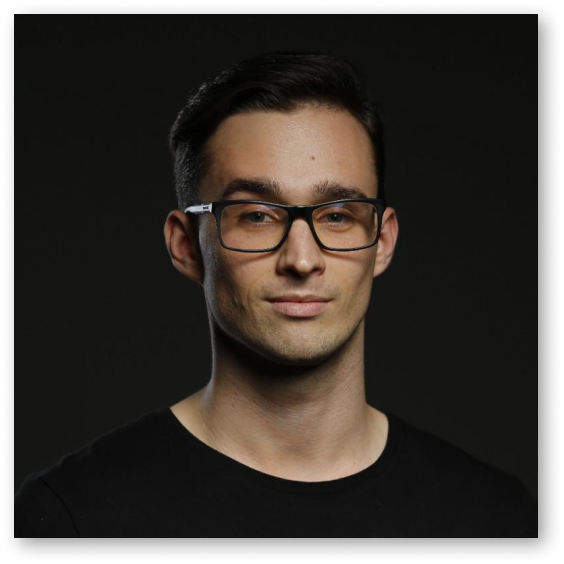
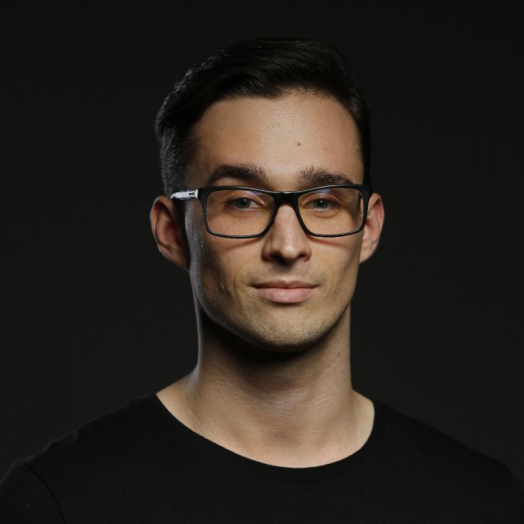
Sekcja mięsko

diff --git a/style.css b/style.css
@@ -1,6 +1,7 @@
 :root{
     --main-black: #232323;
     --main-white: #F8F8F8;
+    --main-black-nice: rgba(56, 56, 56, 0.9);
 }
 
 body{
@@ -8,8 +9,8 @@ body{
      font-family: Lato, sans-serif;
      font-weight: 300;
      margin: 0;
-     width: 100%;
-     height: 100%;
+     /* width: 100%; */
+     /* height: 100%; */
 
 }
 
@@ -43,11 +44,21 @@ align-items: center;
 
 .hero-right {
 width: 1fr;
-background: #3A82B6;
-opacity: .9;
+/* background: #666666; */
+/* background-color: var(--main-black-nice); */
+/* background-color: var (--main-black-nice); */
+/* opacity: 0.9; */
 flex: 5;
 
 }
+.right-background {
+    background-color: var(--main-black-nice);
+    width: 100%;
+    height: 100%;
+
+
+}
+
 .hello {
       margin-left: 80px;
       
@@ -77,16 +88,35 @@ flex: 5;
 .navbar {
     display: flex;
     justify-content: space-evenly;
-    margin-top: 20px;
+    /* margin-top: 20px; */
+    position: relative;
+    top: 20px;
 }
 
 .navbttn > a {
     text-decoration: none; 
      color: var(--main-white);
      font-weight: 600;
+     /* margin-top: 20px; */
+}
+
+.pysk img {
+    opacity: 1;
+    border-radius: 100%;
+    width: 300px;
+    height: 300px;
+}
+
+.pysk {
+    position: relative;
+    top: 80px;
+    right: 140px;
 }
 .cta-container {
-    display:flex;
+    display: flex;
+    flex-direction: column;
+    align-items: center;
+    line-height: 40px;
 }
 
 .cta-container > h1 {
@@ -94,7 +124,57 @@ flex: 5;
     align-items: center;
 }
 
-.pysk img {
-    opacity: 1;
-    border-radius: 50;
+.ctabttn a{
+    text-decoration: none;
+    font-size: 20px;
+    margin: 30px;
+    padding-top: 8px;
+    padding-bottom: 8px;
+    padding-left: 20px;
+    padding-right: 20px;
+    border: solid 1px var(--main-black-nice);
+    border-radius: 20px;
+    color: var(--main-black-nice);
+    font-weight: 500;
+    margin-top: 0px;
+}
+
+.ctabttn a:hover {
+    background-color: #FDC32F;
+    border-color: #FDC32F;
+    color: var(--main-white);
+}
+
+.ctabttn a:active {
+    background-color: rgb(247, 207, 108);
+    border-color: rgb(247, 207, 108);
+    color: var(--main-white);
+}
+
+.miesko {
+    display: flex;
+    flex-direction: column;
+    background-color: #F9F9F9;
+}
+
+.about {
+    margin: 50px;
+    display: flex;
+    flex-direction: column;
+    background-color: #fff;
+    align-items: center;
+}
+
+.about-content {
+    display: flex;
+}
+
+.about-left {
+    flex: 4;
+    padding: 20px;
+}
+
+.about-right {
+    flex: 5;
+    padding: 20px;
 }

diff --git a/index.html b/index.html
@@ -30,6 +30,7 @@
         </div>
     </div>
     <div class="hero-right box">
+        <div class="right-background">
         
         <div class="navbar">
             <div class="navbttn"><a href="#">About me</a></div>
@@ -37,17 +38,47 @@
             <div class="navbttn"><a href="#">Portfolio</a></div>
             <div class="navbttn"><a href="#">Contact</a></div>
         </div>
-        <div class="pysk"><img src="./img/ryj kwadrat.png" alt="Sobolak">  </div>
+        <div class="pysk"><img class= "pysk-img" src="./img/ryj kwadrat.png" alt="Sobolak"/>  </div>
 
-    </div>
+        </div>
+    </div>    
+    
 
 </div>
 <div class="cta-container">
     <h1>Let me know how I <strong>can't</strong> help you with your projects</h1>
-
+    <div class="ctabttn">
+    <a href="#">Contact me</a>
+    <a href="#">Learn about me</a>
+    </div>
 </div>
 
+<div class="miesko">
+    <div class="about">
+        <h2>About</h2>
+        <div class="about-content">
+            <div class="about-left">
+                <p>Full name</p>
+                <p>Age</p>
+                <p>Job</p>
+                <p>Telephone</p>
+                <p>E-mail</p>
+            </div>
+            <div class="about-right">
+            Sunt ea laboris occaecat laborum laborum sunt labore sit quis culpa amet culpa enim excepteur. Velit veniam occaecat consectetur tempor ipsum id. Tempor ut dolore et amet dolore officia fugiat sint non ea aliquip sit id tempor. Cupidatat qui deserunt non labore eiusmod ipsum amet ea sint velit elit sit nostrud adipisicing. Laborum sunt tempor minim Lorem magna elit laboris id ex. Ullamco Lorem ad nisi duis officia adipisicing excepteur aute sint elit. Eu laborum ad et quis ullamco.
+            </div>
 
+
+        </div>
+    </div>
+    <div class="skills">
+
+    </div>
+    <div class="gallery">
+
+    </div>
+
+</div>
 
 </body>
 
